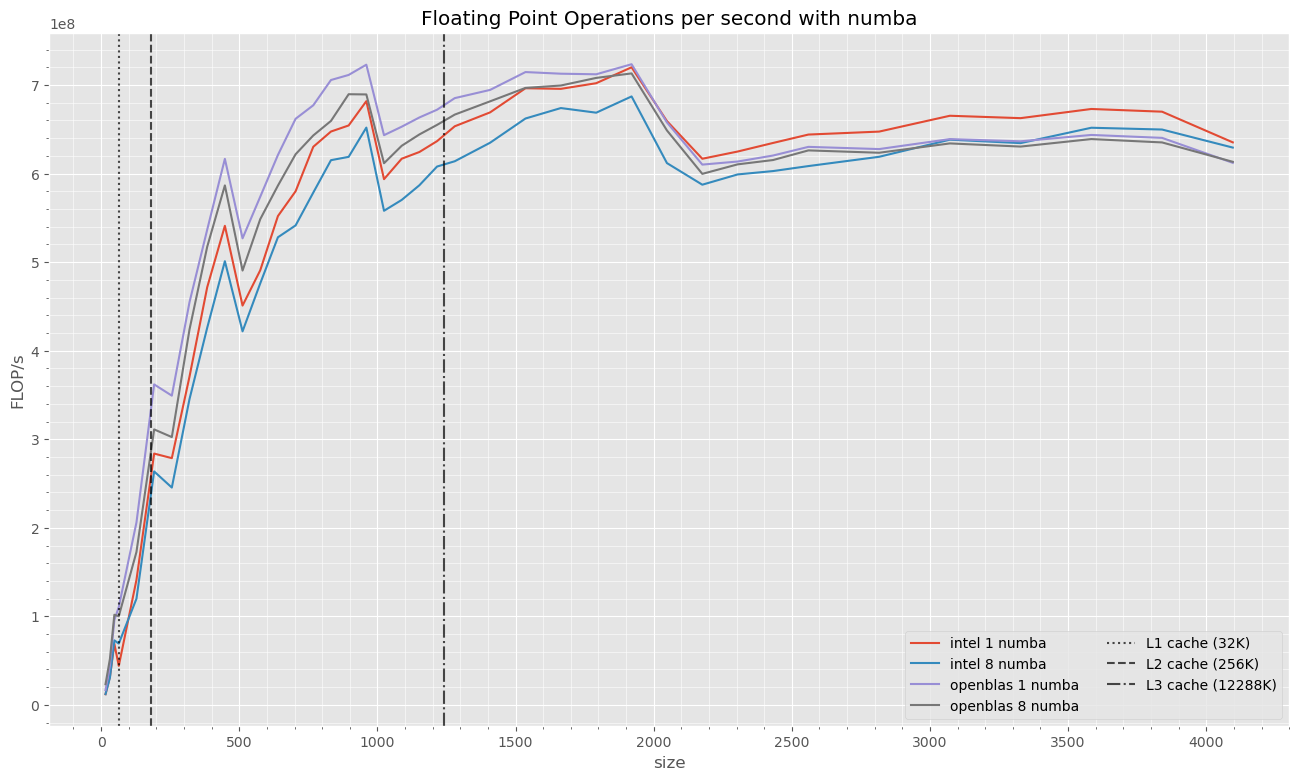
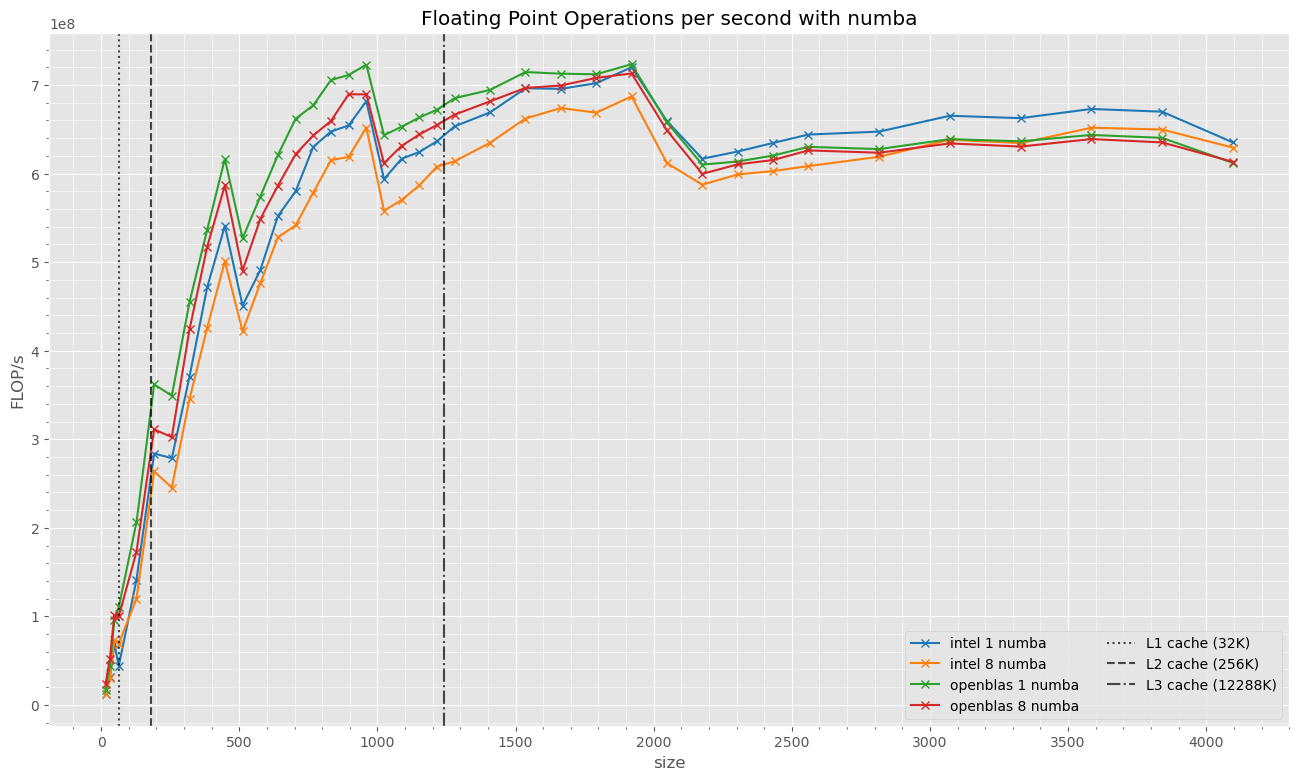
new pictures

Changed region(s): [[0.0616, 0.0615, 0.9546, 0.8923]]

diff --git a/scripts/data.py b/scripts/data.py
@@ -96,23 +96,23 @@ def read_file(path):
         return infos, df
 
 
-def flops(df, label):
-    df.FLOPS.plot(label=label)
+def flops(df, label, color=None):
+    df.FLOPS.plot(label=label, marker='x', color=color)
     plt.ylabel('FLOP/s')
 
 
-def flop(df, label):
-    df.FLOP.plot(label=label)
+def flop(df, label, color):
+    df.FLOP.plot(label=label, color=color)
     plt.ylabel('Flop')
 
 
-def time(df, label):
-    df.time.plot(label=label)
+def time(df, label, color):
+    df.time.plot(label=label, color=color)
     plt.ylabel('time in s')
 
 
-def cycles(df, label):
-    df.cycles.plot(label=label, marker='x')
+def cycles(df, label, color):
+    df.cycles.plot(label=label, marker='x', color=color)
     plt.ylabel('Number of used MG-Cycels')
 
 
@@ -223,11 +223,12 @@ def subplots(frames, base_path, column):
 
 def plot(frames, func, base_path, title):
     plt.clf()
+    color = cycle(mcolor.TABLEAU_COLORS.keys())
     if func.__name__ == 'flops' and len(frames) == 11:
         plot_membandwidth(plt)
     plt.title(title)
     for name, df in frames:
-        func(df, name)
+        func(df, name, next(color))
     plt.minorticks_on()
     # plt.grid(color='w', linestyle='-', linewidth=0.3, alpha=0.5, which='major')
     plt.grid(color='w', linestyle='-', linewidth=0.4, which='minor')
